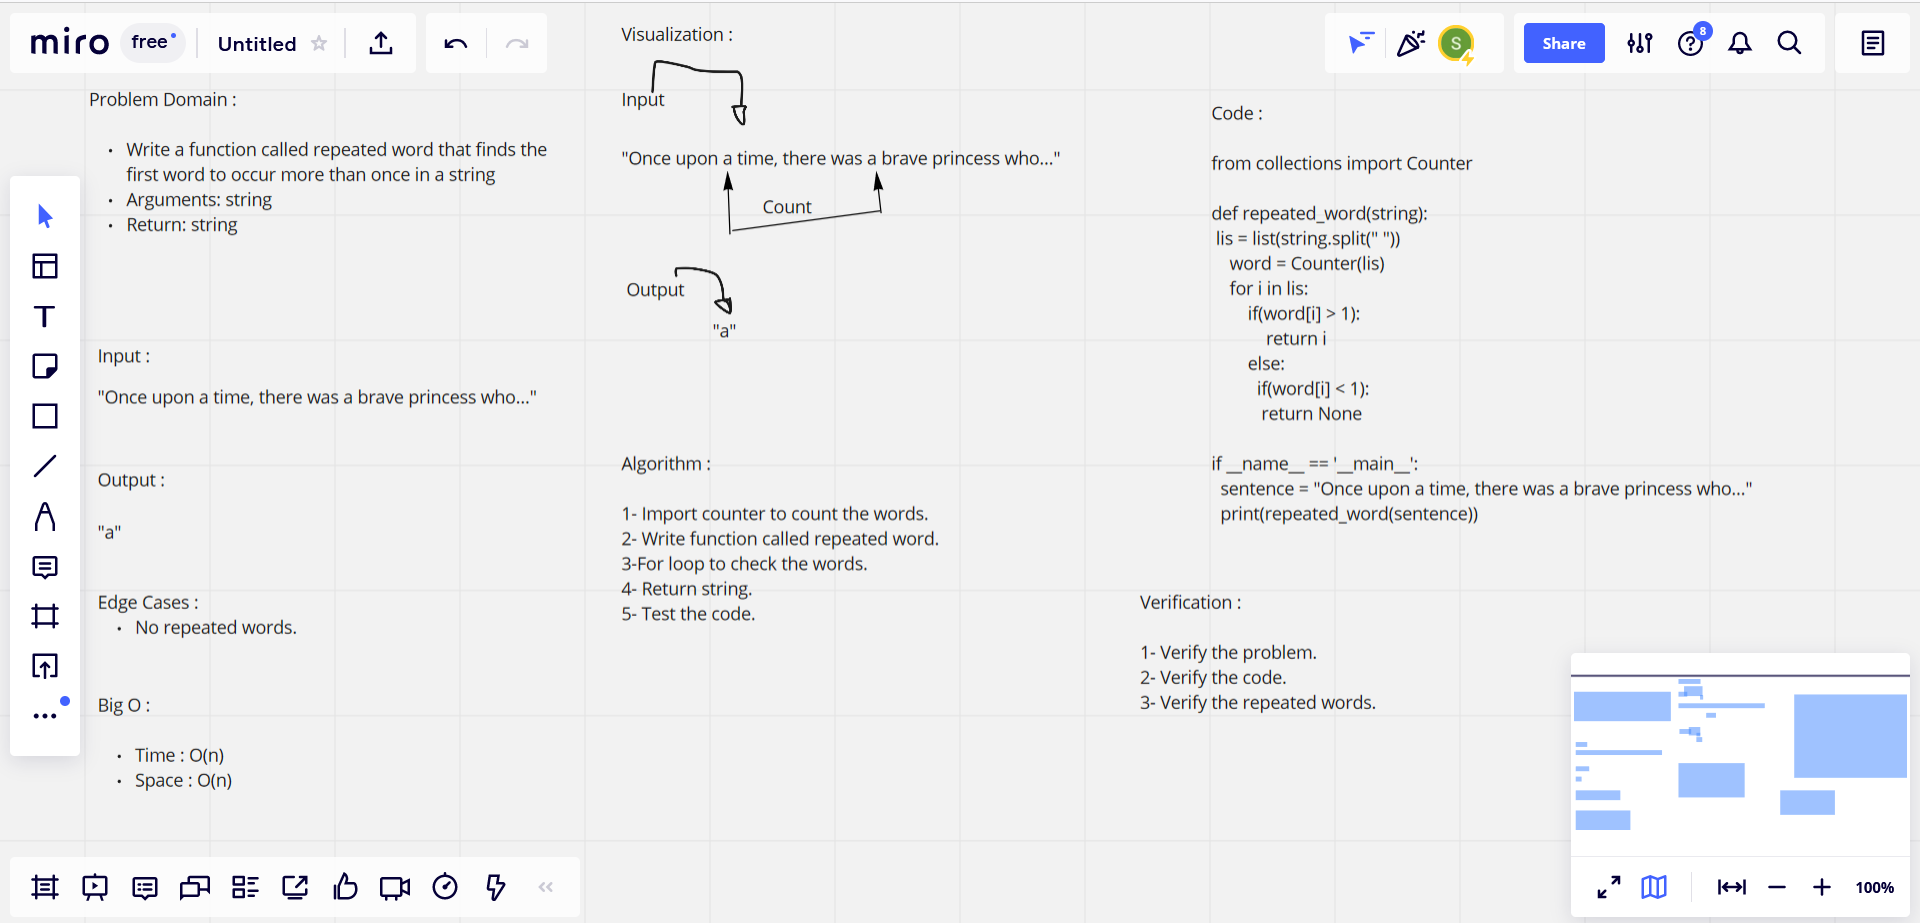
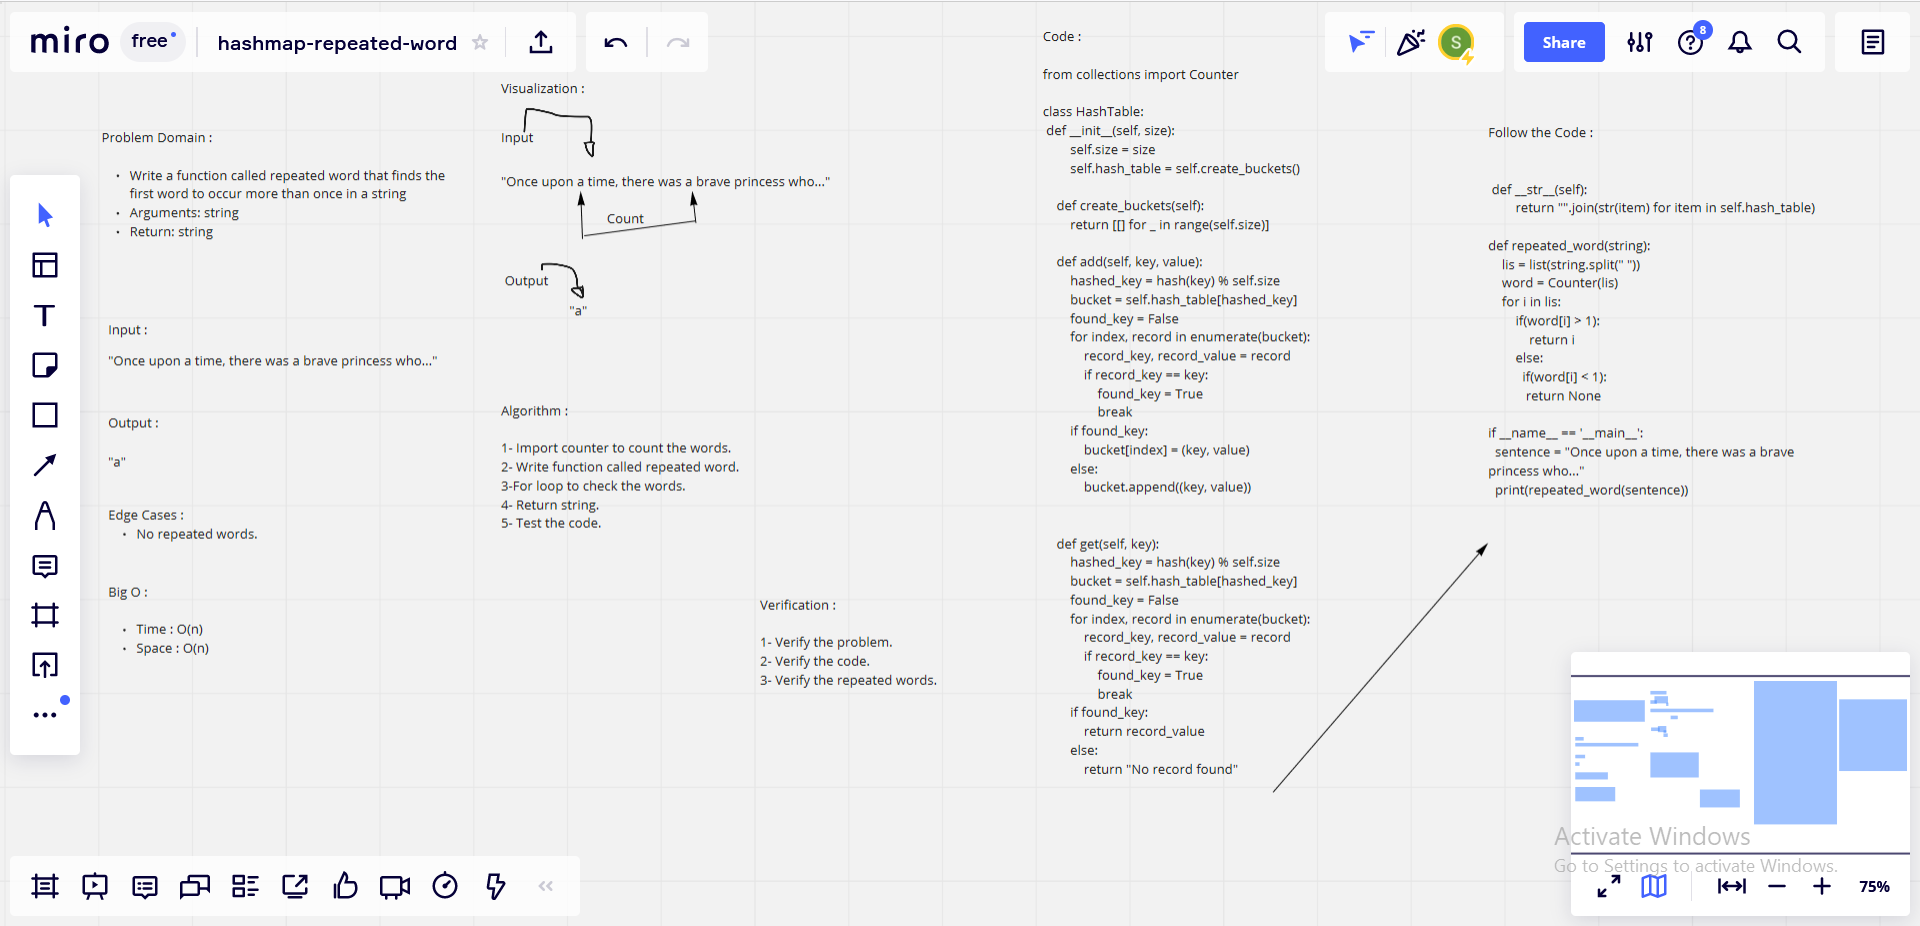
edit the code challenge 31

diff --git a/python/hashmap-repeated-word/hashmap_repeated_word/hashmap_repeated_word.py b/python/hashmap-repeated-word/hashmap_repeated_word/hashmap_repeated_word.py
@@ -1,5 +1,71 @@
 from collections import Counter
 
+class HashTable:
+    def __init__(self, size):
+        self.size = size
+        self.hash_table = self.create_buckets()
+  
+    def create_buckets(self):
+        return [[] for _ in range(self.size)]
+  
+    def add(self, key, value):
+        """
+        # add value into hash map
+        # Get the index from the key
+        # using hash function
+        # Get the bucket corresponding to index
+        # check if the bucket has same key as
+        # the key to be inserted
+        # If the bucket has same key as the key to be inserted,
+        # Update the key value
+        # Otherwise append the new key-value pair to the bucket
+        # parameters: key, value
+        """ 
+
+        hashed_key = hash(key) % self.size
+        bucket = self.hash_table[hashed_key]
+        found_key = False
+        for index, record in enumerate(bucket):
+            record_key, record_value = record
+            if record_key == key:
+                found_key = True
+                break
+        if found_key:
+            bucket[index] = (key, value)
+        else:
+            bucket.append((key, value))
+  
+    
+    def get(self, key):
+        """
+        # Return searched value with specific key
+        # Get the index from the key using
+        # hash function
+        # Get the bucket corresponding to index
+        # check if the bucket has same key as 
+        # the key being searched
+        # If the bucket has same key as the key being searched,
+        # Return the value found
+        # Otherwise indicate there was no record found
+        # parameters: key
+        """ 
+
+        hashed_key = hash(key) % self.size
+        bucket = self.hash_table[hashed_key]
+        found_key = False
+        for index, record in enumerate(bucket):
+            record_key, record_value = record
+            if record_key == key:
+                found_key = True
+                break
+        if found_key:
+            return record_value
+        else:
+            return "No record found"
+  
+    def __str__(self):
+        return "".join(str(item) for item in self.hash_table)
+
 def repeated_word(string):
     lis = list(string.split(" "))
     word = Counter(lis)
@@ -12,4 +78,10 @@ def repeated_word(string):
  
 if __name__ == '__main__':
   sentence = "Once upon a time, there was a brave princess who..."
+  print(repeated_word(sentence))
+
+  sentence = "it was the best of times, it was the worst of times, it was the age of wisdom, it was the age of foolishness, it was the epoch of belief, it was the epoch of incredulity, it was the season of Light, it was the season of Darkness, it was the spring of hope, it was the winter of despair, we had everything before us, we had nothing before us, we were all going direct to Heaven, we were all going direct the other way – in short, the period was so far like the present period, that some of its noisiest authorities insisted on its being received, for good or for evil, in the superlative degree of comparison only..."
+  print(repeated_word(sentence))
+
+  sentence = "It was a queer, sultry summer, the summer they electrocuted the Rosenbergs, and I didn’t know what I was doing in New York..." 
   print(repeated_word(sentence))

diff --git a/python/hashmap-repeated-word/README.md b/python/hashmap-repeated-word/README.md
@@ -31,6 +31,72 @@
 
     from collections import Counter
 
+    class HashTable:
+        def __init__(self, size):
+            self.size = size
+            self.hash_table = self.create_buckets()
+    
+        def create_buckets(self):
+            return [[] for _ in range(self.size)]
+    
+        def add(self, key, value):
+            """
+            # add value into hash map
+            # Get the index from the key
+            # using hash function
+            # Get the bucket corresponding to index
+            # check if the bucket has same key as
+            # the key to be inserted
+            # If the bucket has same key as the key to be inserted,
+            # Update the key value
+            # Otherwise append the new key-value pair to the bucket
+            # parameters: key, value
+            """ 
+
+            hashed_key = hash(key) % self.size
+            bucket = self.hash_table[hashed_key]
+            found_key = False
+            for index, record in enumerate(bucket):
+                record_key, record_value = record
+                if record_key == key:
+                    found_key = True
+                    break
+            if found_key:
+                bucket[index] = (key, value)
+            else:
+                bucket.append((key, value))
+    
+        
+        def get(self, key):
+            """
+            # Return searched value with specific key
+            # Get the index from the key using
+            # hash function
+            # Get the bucket corresponding to index
+            # check if the bucket has same key as 
+            # the key being searched
+            # If the bucket has same key as the key being searched,
+            # Return the value found
+            # Otherwise indicate there was no record found
+            # parameters: key
+            """ 
+
+            hashed_key = hash(key) % self.size
+            bucket = self.hash_table[hashed_key]
+            found_key = False
+            for index, record in enumerate(bucket):
+                record_key, record_value = record
+                if record_key == key:
+                    found_key = True
+                    break
+            if found_key:
+                return record_value
+            else:
+                return "No record found"
+    
+        def __str__(self):
+            return "".join(str(item) for item in self.hash_table)
+
     def repeated_word(string):
         lis = list(string.split(" "))
         word = Counter(lis)
@@ -42,8 +108,15 @@
             return None
     
     if __name__ == '__main__':
+
     sentence = "Once upon a time, there was a brave princess who..."
-    print(repeated_word(sentence)) 
+    print(repeated_word(sentence))
+
+    sentence = "it was the best of times, it was the worst of times, it was the age of wisdom, it was the age of foolishness, it was the epoch of belief, it was the epoch of incredulity, it was the season of Light, it was the season of Darkness, it was the spring of hope, it was the winter of despair, we had everything before us, we had nothing before us, we were all going direct to Heaven, we were all going direct the other way – in short, the period was so far like the present period, that some of its noisiest authorities insisted on its being received, for good or for evil, in the superlative degree of comparison only..."
+    print(repeated_word(sentence))
+
+    sentence = "It was a queer, sultry summer, the summer they electrocuted the Rosenbergs, and I didn’t know what I was doing in New York..." 
+    print(repeated_word(sentence))
 
 | Subject     | links |
 | ----------- | ----------- |
